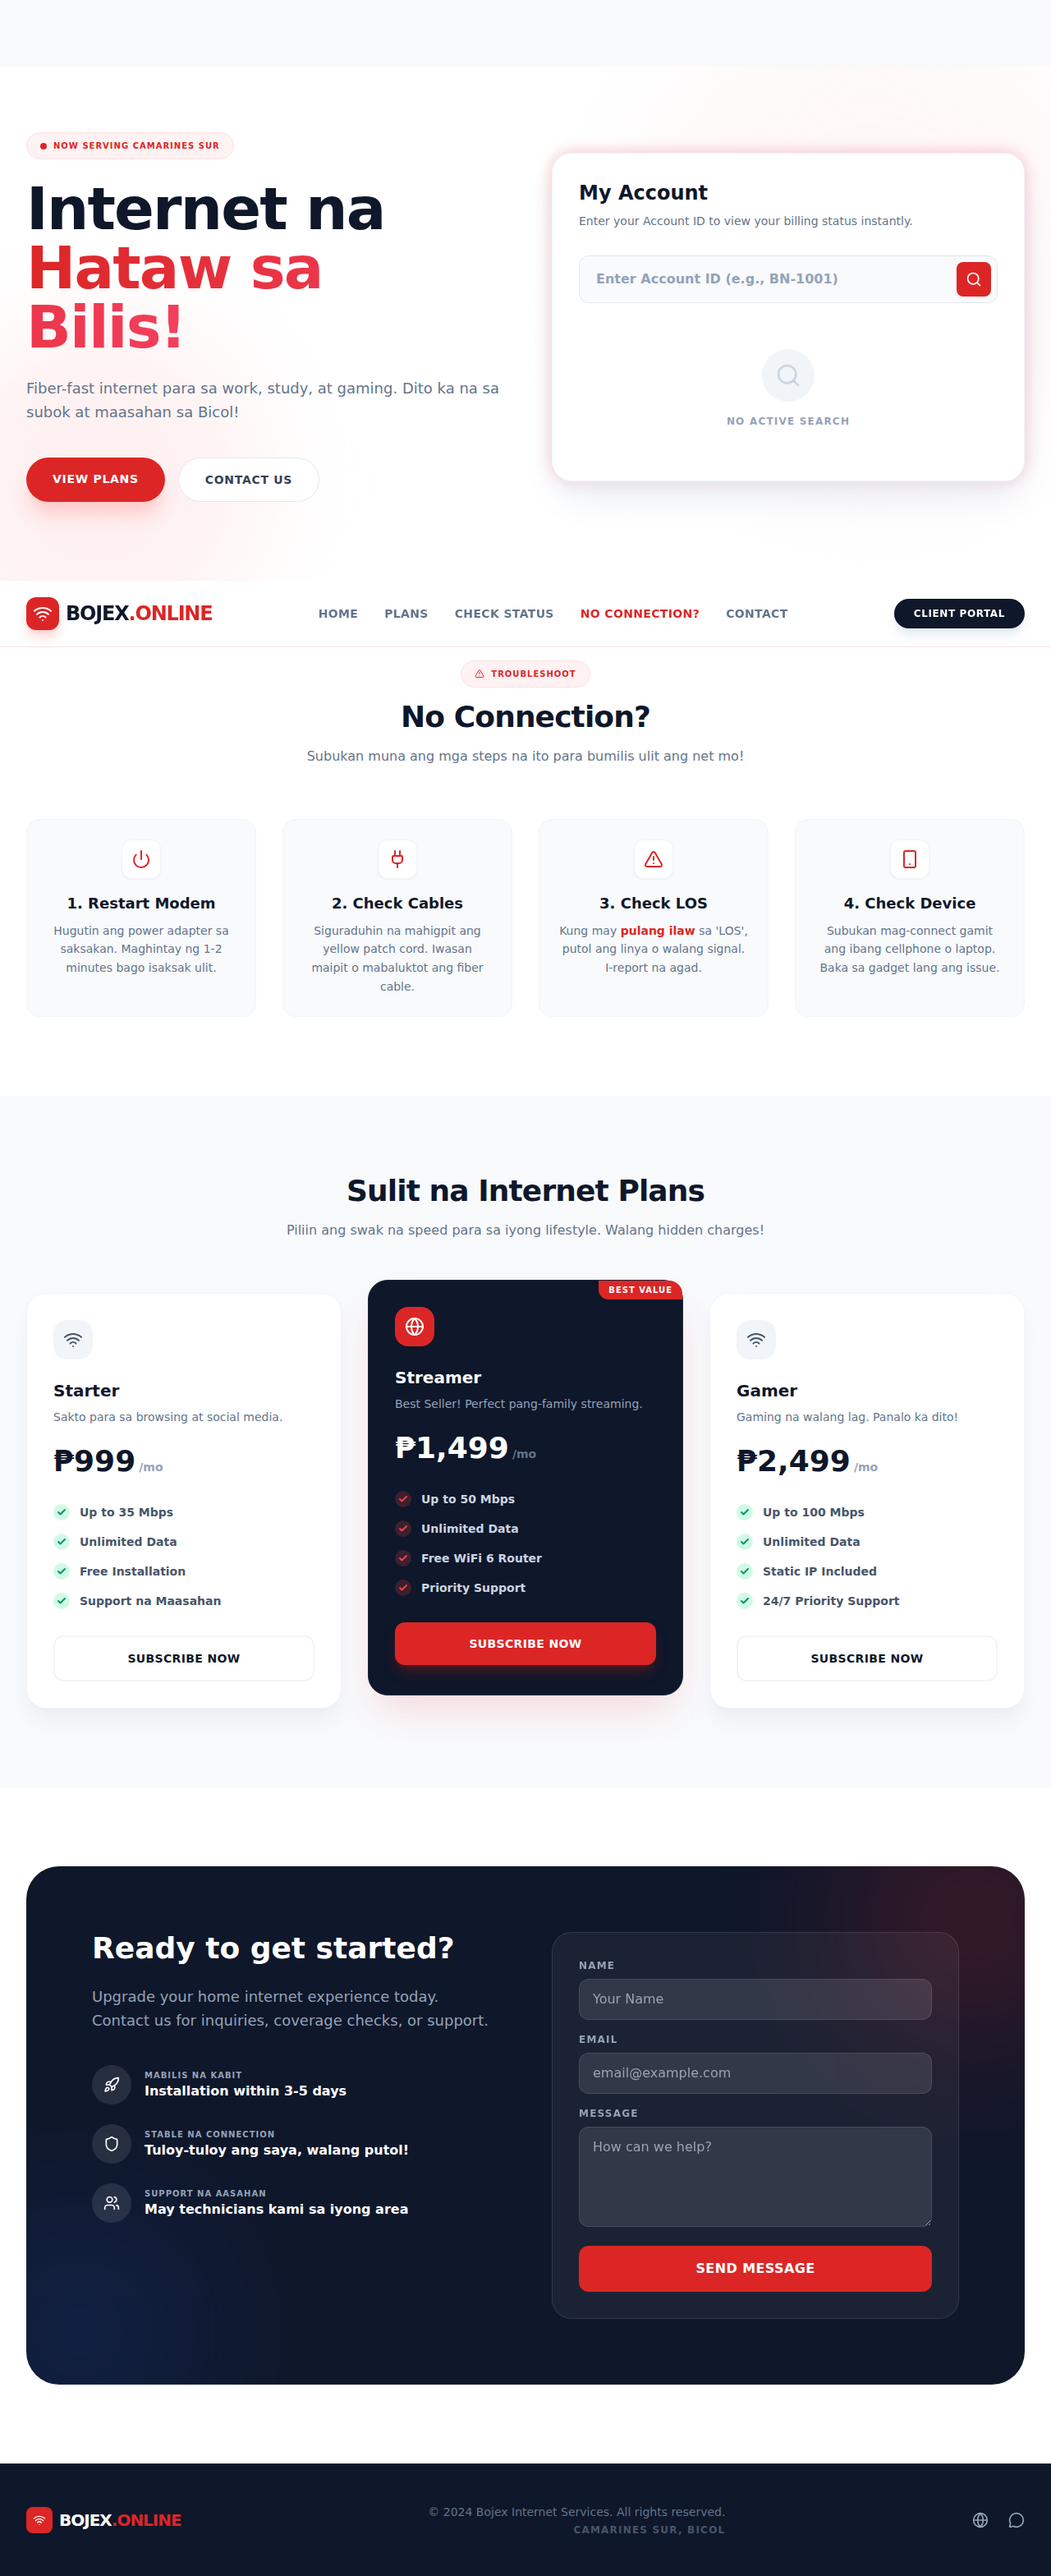
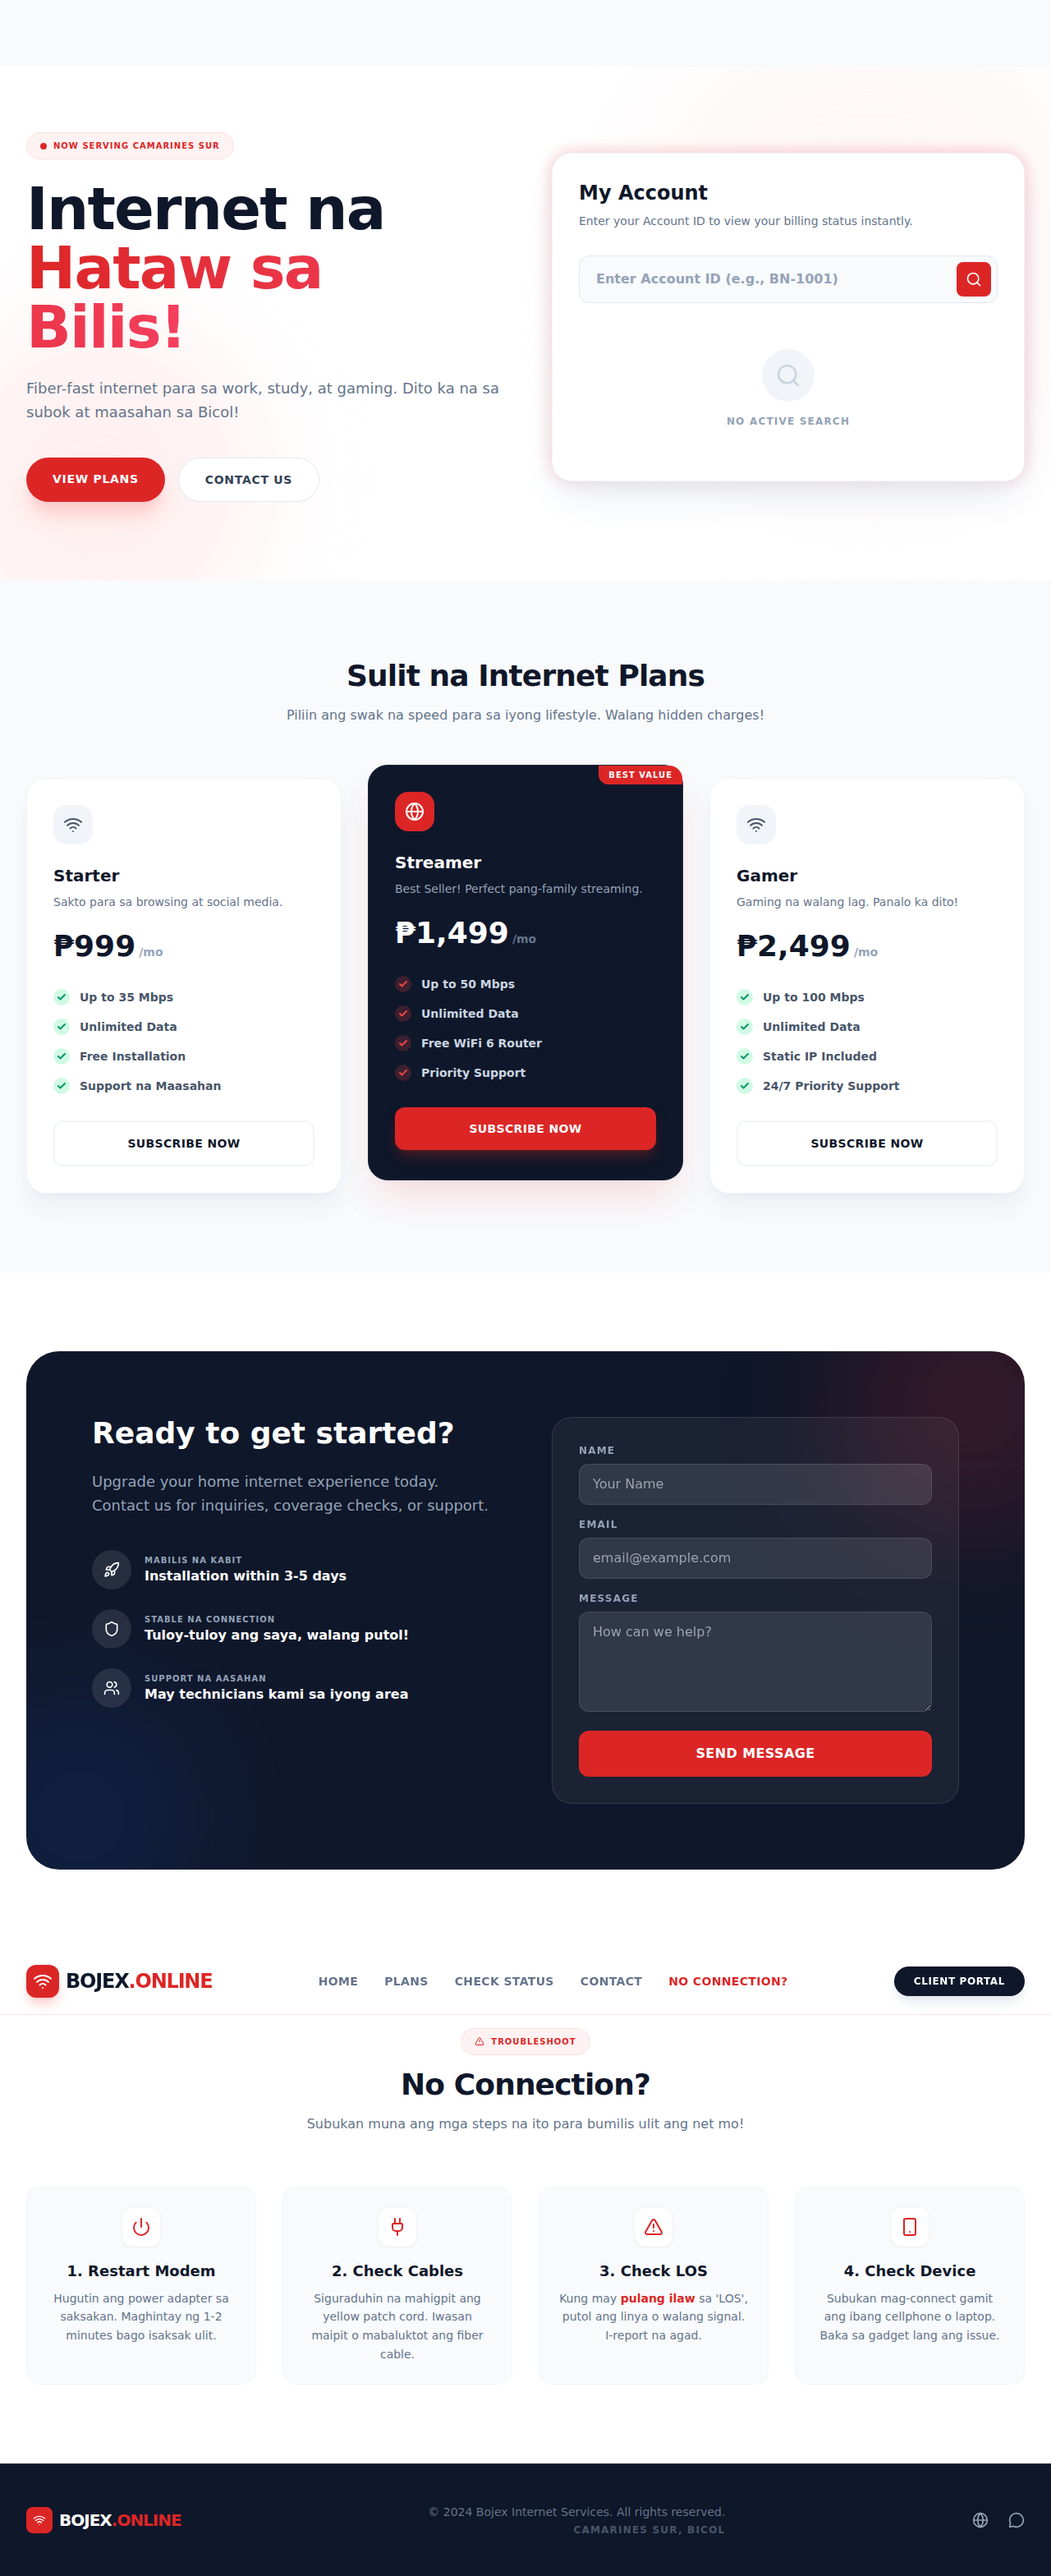
Add "No Connection?" troubleshooting section to Home page

diff --git a/client/src/pages/Home.jsx b/client/src/pages/Home.jsx
@@ -24,7 +24,7 @@ const Home = () => {
 
   useEffect(() => {
     const handleScroll = () => {
-      const sections = ['home', 'plans', 'status', 'no-connection', 'contact'];
+      const sections = ['home', 'plans', 'status', 'contact', 'no-connection'];
       const scrollPosition = window.scrollY + 100; // Offset for navbar
 
       for (const section of sections) {
@@ -147,8 +147,8 @@ const Home = () => {
               <a href="#home" className={`text-sm font-bold uppercase tracking-wide transition-colors ${activeSection === 'home' ? 'text-red-600' : 'text-slate-500 hover:text-red-600'}`}>Home</a>
               <a href="#plans" className={`text-sm font-bold uppercase tracking-wide transition-colors ${activeSection === 'plans' ? 'text-red-600' : 'text-slate-500 hover:text-red-600'}`}>Plans</a>
               <a href="#status" className={`text-sm font-bold uppercase tracking-wide transition-colors ${activeSection === 'status' ? 'text-red-600' : 'text-slate-500 hover:text-red-600'}`}>Check Status</a>
-              <a href="#no-connection" className={`text-sm font-bold uppercase tracking-wide transition-colors ${activeSection === 'no-connection' ? 'text-red-600' : 'text-slate-500 hover:text-red-600'}`}>No Connection?</a>
               <a href="#contact" className={`text-sm font-bold uppercase tracking-wide transition-colors ${activeSection === 'contact' ? 'text-red-600' : 'text-slate-500 hover:text-red-600'}`}>Contact</a>
+              <a href="#no-connection" className={`text-sm font-bold uppercase tracking-wide transition-colors ${activeSection === 'no-connection' ? 'text-red-600' : 'text-slate-500 hover:text-red-600'}`}>No Connection?</a>
             </div>
 
             <div className="flex items-center gap-4">
@@ -192,18 +192,18 @@ const Home = () => {
                 Check Status
               </a>
               <a
-                href="#no-connection"
-                className="text-sm font-bold uppercase tracking-wide text-slate-500 hover:text-red-600 transition-colors"
-                onClick={() => setIsMobileMenuOpen(false)}
-              >
-                No Connection?
-              </a>
-              <a
                 href="#contact"
                 className="text-sm font-bold uppercase tracking-wide text-slate-500 hover:text-red-600 transition-colors"
                 onClick={() => setIsMobileMenuOpen(false)}
               >
                 Contact
+              </a>
+              <a
+                href="#no-connection"
+                className="text-sm font-bold uppercase tracking-wide text-slate-500 hover:text-red-600 transition-colors"
+                onClick={() => setIsMobileMenuOpen(false)}
+              >
+                No Connection?
               </a>
               <button className="w-full bg-slate-900 text-white px-6 py-4 rounded-xl font-bold text-xs uppercase tracking-wider hover:bg-slate-800 transition-all shadow-lg shadow-slate-200">
                 Client Portal
@@ -337,66 +337,6 @@ const Home = () => {
 
           </div>
         </div>
-      </section>
-
-      {/* No Connection Section */}
-      <section id="no-connection" className="py-24 bg-white border-t border-slate-100">
-          <div className="max-w-7xl mx-auto px-4 sm:px-6 lg:px-8">
-              <div className="text-center max-w-2xl mx-auto mb-16">
-                  <div className="inline-flex items-center gap-2 px-4 py-2 rounded-full bg-red-50 text-red-600 font-bold text-[10px] uppercase tracking-widest mb-4 border border-red-100">
-                      <AlertTriangle className="w-3 h-3" />
-                      Troubleshoot
-                  </div>
-                  <h2 className="text-4xl font-black text-slate-900 mb-4 tracking-tight">No Connection?</h2>
-                  <p className="text-slate-500 font-medium">Subukan muna ang mga steps na ito para bumilis ulit ang net mo!</p>
-              </div>
-
-              <div className="grid md:grid-cols-4 gap-8">
-                  {/* Step 1 */}
-                  <div className="bg-slate-50 rounded-2xl p-6 border border-slate-100 text-center hover:border-red-200 transition-colors">
-                      <div className="w-12 h-12 bg-white rounded-xl shadow-sm border border-slate-100 flex items-center justify-center text-red-600 mx-auto mb-4">
-                          <Power className="w-6 h-6" />
-                      </div>
-                      <h3 className="text-lg font-black text-slate-900 mb-2">1. Restart Modem</h3>
-                      <p className="text-sm text-slate-500 leading-relaxed">
-                          Hugutin ang power adapter sa saksakan. Maghintay ng 1-2 minutes bago isaksak ulit.
-                      </p>
-                  </div>
-
-                  {/* Step 2 */}
-                  <div className="bg-slate-50 rounded-2xl p-6 border border-slate-100 text-center hover:border-red-200 transition-colors">
-                      <div className="w-12 h-12 bg-white rounded-xl shadow-sm border border-slate-100 flex items-center justify-center text-red-600 mx-auto mb-4">
-                          <Plug className="w-6 h-6" />
-                      </div>
-                      <h3 className="text-lg font-black text-slate-900 mb-2">2. Check Cables</h3>
-                      <p className="text-sm text-slate-500 leading-relaxed">
-                          Siguraduhin na mahigpit ang yellow patch cord. Iwasan maipit o mabaluktot ang fiber cable.
-                      </p>
-                  </div>
-
-                  {/* Step 3 */}
-                  <div className="bg-slate-50 rounded-2xl p-6 border border-slate-100 text-center hover:border-red-200 transition-colors">
-                      <div className="w-12 h-12 bg-white rounded-xl shadow-sm border border-slate-100 flex items-center justify-center text-red-600 mx-auto mb-4">
-                          <AlertTriangle className="w-6 h-6" />
-                      </div>
-                      <h3 className="text-lg font-black text-slate-900 mb-2">3. Check LOS</h3>
-                      <p className="text-sm text-slate-500 leading-relaxed">
-                          Kung may <span className="text-red-600 font-bold">pulang ilaw</span> sa 'LOS', putol ang linya o walang signal. I-report na agad.
-                      </p>
-                  </div>
-
-                   {/* Step 4 */}
-                   <div className="bg-slate-50 rounded-2xl p-6 border border-slate-100 text-center hover:border-red-200 transition-colors">
-                      <div className="w-12 h-12 bg-white rounded-xl shadow-sm border border-slate-100 flex items-center justify-center text-red-600 mx-auto mb-4">
-                          <Smartphone className="w-6 h-6" />
-                      </div>
-                      <h3 className="text-lg font-black text-slate-900 mb-2">4. Check Device</h3>
-                      <p className="text-sm text-slate-500 leading-relaxed">
-                          Subukan mag-connect gamit ang ibang cellphone o laptop. Baka sa gadget lang ang issue.
-                      </p>
-                  </div>
-              </div>
-          </div>
       </section>
 
       {/* Plans Section */}
@@ -599,6 +539,66 @@ const Home = () => {
                  </div>
              </div>
          </div>
+      </section>
+
+      {/* No Connection Section */}
+      <section id="no-connection" className="py-24 bg-white border-t border-slate-100">
+          <div className="max-w-7xl mx-auto px-4 sm:px-6 lg:px-8">
+              <div className="text-center max-w-2xl mx-auto mb-16">
+                  <div className="inline-flex items-center gap-2 px-4 py-2 rounded-full bg-red-50 text-red-600 font-bold text-[10px] uppercase tracking-widest mb-4 border border-red-100">
+                      <AlertTriangle className="w-3 h-3" />
+                      Troubleshoot
+                  </div>
+                  <h2 className="text-4xl font-black text-slate-900 mb-4 tracking-tight">No Connection?</h2>
+                  <p className="text-slate-500 font-medium">Subukan muna ang mga steps na ito para bumilis ulit ang net mo!</p>
+              </div>
+
+              <div className="grid md:grid-cols-4 gap-8">
+                  {/* Step 1 */}
+                  <div className="bg-slate-50 rounded-2xl p-6 border border-slate-100 text-center hover:border-red-200 transition-colors">
+                      <div className="w-12 h-12 bg-white rounded-xl shadow-sm border border-slate-100 flex items-center justify-center text-red-600 mx-auto mb-4">
+                          <Power className="w-6 h-6" />
+                      </div>
+                      <h3 className="text-lg font-black text-slate-900 mb-2">1. Restart Modem</h3>
+                      <p className="text-sm text-slate-500 leading-relaxed">
+                          Hugutin ang power adapter sa saksakan. Maghintay ng 1-2 minutes bago isaksak ulit.
+                      </p>
+                  </div>
+
+                  {/* Step 2 */}
+                  <div className="bg-slate-50 rounded-2xl p-6 border border-slate-100 text-center hover:border-red-200 transition-colors">
+                      <div className="w-12 h-12 bg-white rounded-xl shadow-sm border border-slate-100 flex items-center justify-center text-red-600 mx-auto mb-4">
+                          <Plug className="w-6 h-6" />
+                      </div>
+                      <h3 className="text-lg font-black text-slate-900 mb-2">2. Check Cables</h3>
+                      <p className="text-sm text-slate-500 leading-relaxed">
+                          Siguraduhin na mahigpit ang yellow patch cord. Iwasan maipit o mabaluktot ang fiber cable.
+                      </p>
+                  </div>
+
+                  {/* Step 3 */}
+                  <div className="bg-slate-50 rounded-2xl p-6 border border-slate-100 text-center hover:border-red-200 transition-colors">
+                      <div className="w-12 h-12 bg-white rounded-xl shadow-sm border border-slate-100 flex items-center justify-center text-red-600 mx-auto mb-4">
+                          <AlertTriangle className="w-6 h-6" />
+                      </div>
+                      <h3 className="text-lg font-black text-slate-900 mb-2">3. Check LOS</h3>
+                      <p className="text-sm text-slate-500 leading-relaxed">
+                          Kung may <span className="text-red-600 font-bold">pulang ilaw</span> sa 'LOS', putol ang linya o walang signal. I-report na agad.
+                      </p>
+                  </div>
+
+                   {/* Step 4 */}
+                   <div className="bg-slate-50 rounded-2xl p-6 border border-slate-100 text-center hover:border-red-200 transition-colors">
+                      <div className="w-12 h-12 bg-white rounded-xl shadow-sm border border-slate-100 flex items-center justify-center text-red-600 mx-auto mb-4">
+                          <Smartphone className="w-6 h-6" />
+                      </div>
+                      <h3 className="text-lg font-black text-slate-900 mb-2">4. Check Device</h3>
+                      <p className="text-sm text-slate-500 leading-relaxed">
+                          Subukan mag-connect gamit ang ibang cellphone o laptop. Baka sa gadget lang ang issue.
+                      </p>
+                  </div>
+              </div>
+          </div>
       </section>
 
       {/* Footer */}
